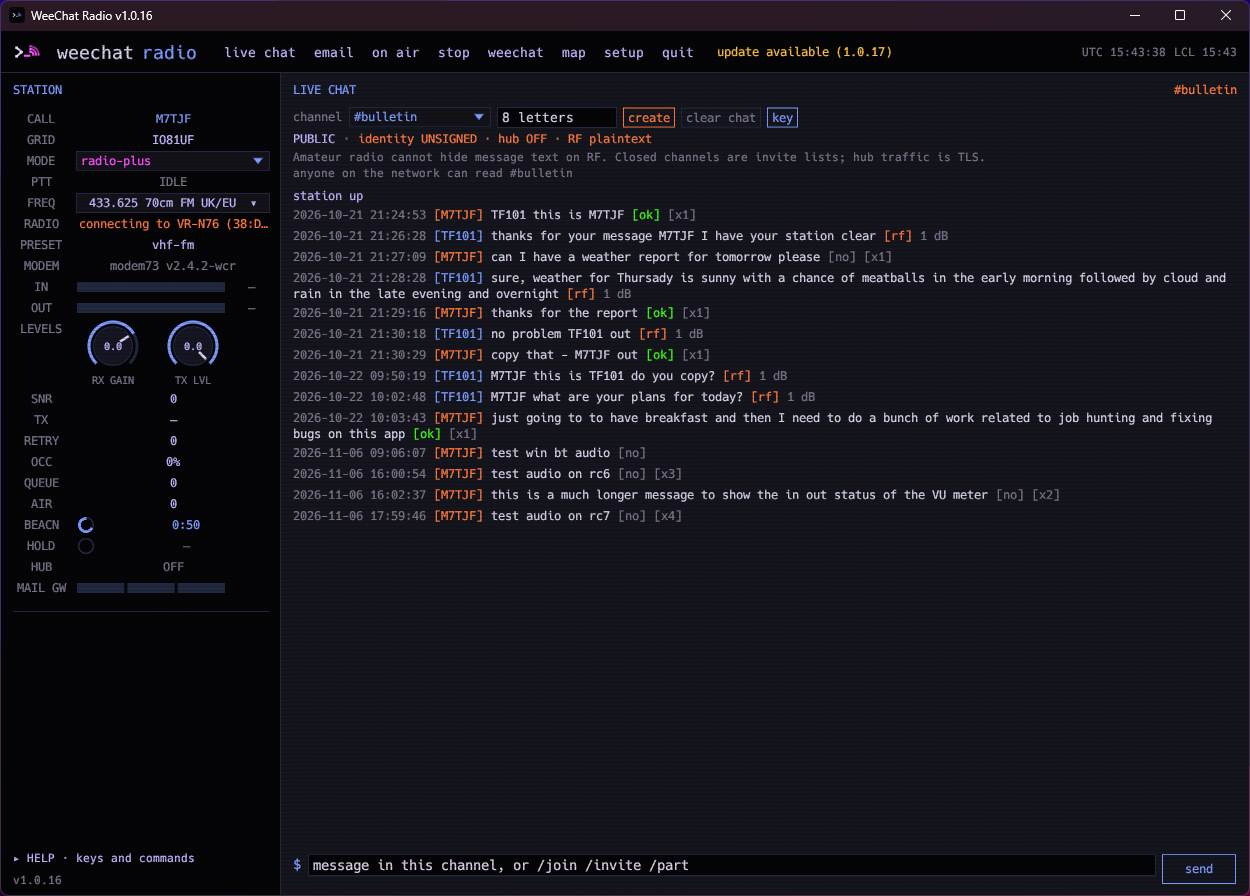
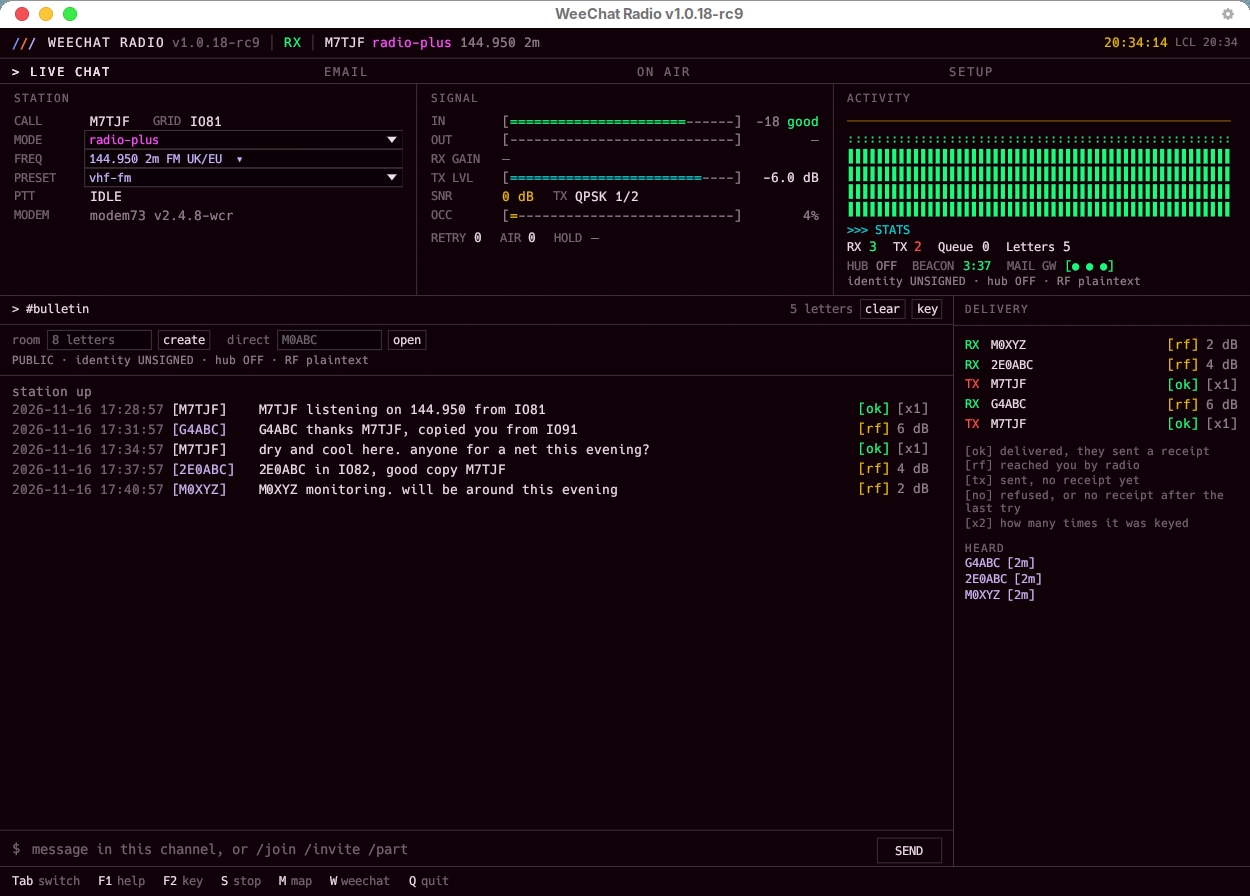
Refresh desktop screenshots for the v1.0.18-rc9 layout. (#354)
The README stills and slideshow now show the modem73 STATION and SIGNAL strip, radio email, and setup from the current desktop app.

diff --git a/README.md b/README.md
@@ -36,7 +36,7 @@ WeeChat is a trademark of Sébastien Helleu. This project is independent.
 
 ## Screenshots
 
-Desktop app (Windows, v1.0.16) — animated overview, then stills. Dark UI, readable on GitHub light and dark. Click any still for full size.
+Desktop app (v1.0.18-rc9) — animated overview, then stills. Dark UI, readable on GitHub light and dark. Click any still for full size.
 
 <p align="center">
   <a href="docs/screenshots/desktop-live-chat.png">
@@ -52,10 +52,10 @@ Desktop app (Windows, v1.0.16) — animated overview, then stills. Dark UI, read
   <tr>
     <td align="center" valign="top" width="50%">
       <a href="docs/screenshots/desktop-live-chat.png">
-        <img src="docs/screenshots/desktop-live-chat.png" alt="Desktop live chat on #bulletin with station panel" width="480" />
+        <img src="docs/screenshots/desktop-live-chat.png" alt="Desktop live chat on #bulletin with STATION and SIGNAL panels" width="480" />
       </a>
       <br />
-      <sub><b>Live chat</b> — <code>#bulletin</code> with station panel and <code>[ok]</code> / <code>[rf]</code> marks</sub>
+      <sub><b>Live chat</b> — <code>#bulletin</code> with the STATION and SIGNAL panels, and <code>[ok]</code> / <code>[rf]</code> marks</sub>
     </td>
     <td align="center" valign="top" width="50%">
       <a href="docs/screenshots/desktop-email.png">
